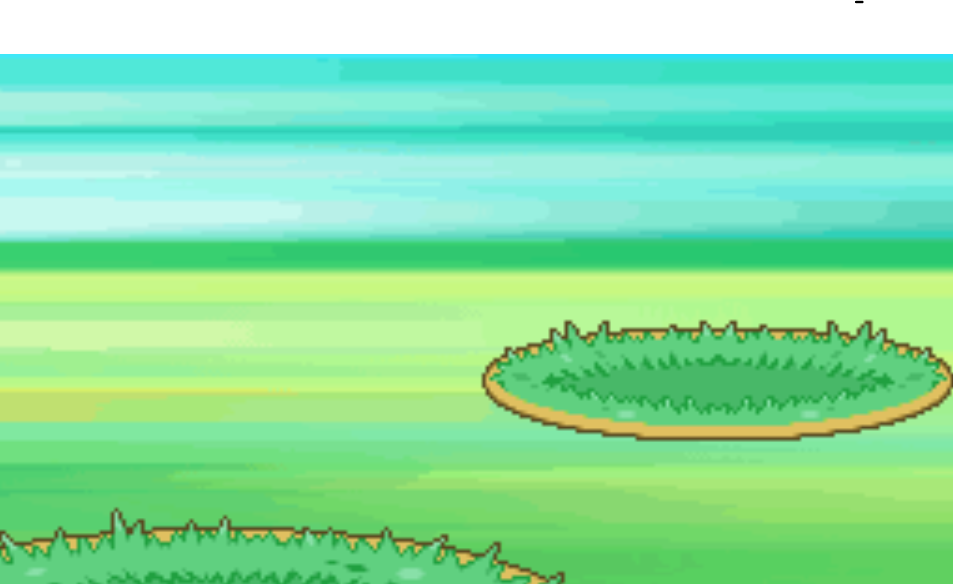
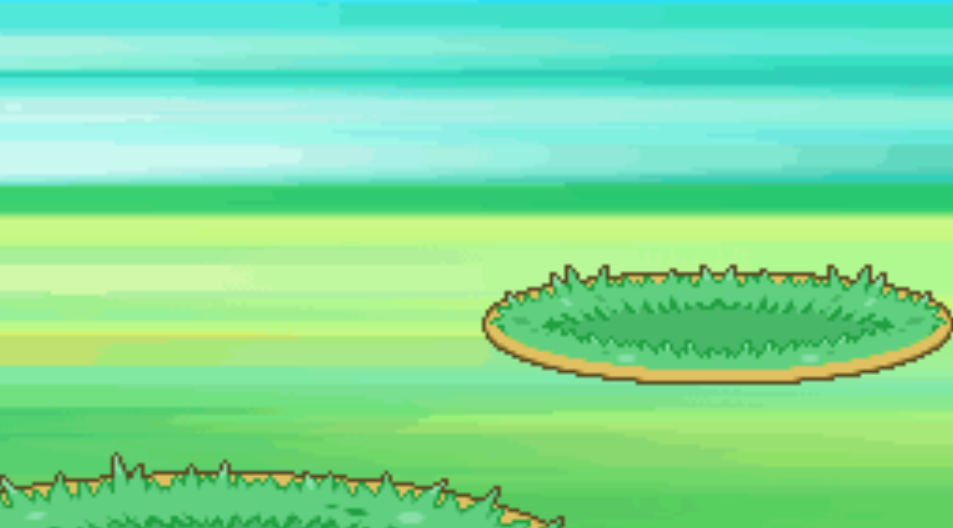
Adjustments
- Adjusted background
- Readded functionality to buttons but in main app class

diff --git a/Window_class.py b/Window_class.py
@@ -9,7 +9,7 @@ from PIL import Image, ImageTk
 
 
 MENU_WIDTH = 953
-MENU_HEIGHT = 584+250
+MENU_HEIGHT = 528+175
 MENU_CENTERX = MENU_WIDTH / 2
 MENU_CENTERY = MENU_HEIGHT / 2
 BOTTOM_BARY = MENU_CENTERY * 0.75
@@ -53,11 +53,6 @@ class Window:
     def get_pokemon_remaining_pl(self):
         return self.pokemon_remaining_pl
 
-    def test(self):
-        COLORS = ["red", "green", "blue", "yellow"]
-        example = Label(self.root, text="test", background=random.choice(COLORS))
-        example.place(x=0, y=0, width=50, height=50)
-
     def mouse_hover_change(self, button, oldtext):
         '''Change the text of the button when the mouse is over it.'''
         button.bind("<Enter>", lambda e: button.config(text="➤ " + oldtext))
@@ -72,29 +67,31 @@ class Window:
         self.moves_frame = Frame(self.root, bg="white")
         self.moves_frame.place(x=SIDE_FRAME, y=BOTTOM_BARY_TOP+TOP_BOTTOM_FRAME, width=OPTIONS_MOVES_FRAME_WIDTH, height=OPTIONS_MOVES_FRAME_HEIGHT)
 
-        self.move1 = Button(self.moves_frame, text="move1", font=self.font, justify=LEFT,command=self.test)
+        self.move1 = Button(self.moves_frame, text="move1", font=self.font, justify=LEFT)
         self.move1.place(x=0,y=0,width=OPTIONS_MOVES_FRAME_WIDTH/2,height=OPTIONS_MOVES_FRAME_HEIGHT/2)
 
-        self.move2 = Button(self.moves_frame, text="move2", font=self.font, justify=LEFT,command=self.test)
+        self.move2 = Button(self.moves_frame, text="move2", font=self.font, justify=LEFT)
         self.move2.place(x=OPTIONS_MOVES_FRAME_WIDTH/2,y=0,width=OPTIONS_MOVES_FRAME_WIDTH/2,height=OPTIONS_MOVES_FRAME_HEIGHT/2) 
 
-        self.move3 = Button(self.moves_frame, text="move3", font=self.font, justify=LEFT,command=self.test)
+        self.move3 = Button(self.moves_frame, text="move3", font=self.font, justify=LEFT)
         self.move3.place(x=0,y=OPTIONS_MOVES_FRAME_HEIGHT/2,width=OPTIONS_MOVES_FRAME_WIDTH/2,height=OPTIONS_MOVES_FRAME_HEIGHT/2)
 
-        self.move4 = Button(self.moves_frame, text="move4", font=self.font, justify=LEFT,command=self.test)
+        self.move4 = Button(self.moves_frame, text="move4", font=self.font, justify=LEFT)
         self.move4.place(x=OPTIONS_MOVES_FRAME_WIDTH/2,y=OPTIONS_MOVES_FRAME_HEIGHT/2,width=OPTIONS_MOVES_FRAME_WIDTH/2,height=OPTIONS_MOVES_FRAME_HEIGHT/2)
 
 
 
 
-    def setup(self): # Change to use place() instead of grid(). Also origin is top left corner
-        '''Create all of the widgets for the menu.'''
+    def setup(self): # Origin is top left corner
+        '''Create all of the widgets for the main game menu.'''
+        # Background
         wallpaper = Image.open("pokemon_background.png")
         wallpaper = ImageTk.PhotoImage(wallpaper)
+        img_height = wallpaper.height()
 
         self.background = Label(self.root,image=wallpaper, bg=None)
         self.background.image = wallpaper
-        self.background.place(x=0, y=0, width=MENU_WIDTH, height=BOTTOM_BARY_TOP)
+        self.background.place(x=0, y=img_height-MENU_HEIGHT, width=MENU_WIDTH, height=MENU_HEIGHT)
 
 
         self.font = Font(family="Helvetica", size=20, weight="bold")
@@ -120,26 +117,26 @@ class Window:
 
 
         # top left button
-        self.fight_button = Button(self.right_options_frame, text="Fight", font=self.font, justify=LEFT,command=self.test)
+        self.fight_button = Button(self.right_options_frame, text="Fight", font=self.font, justify=LEFT)
         self.fight_button.place(x=0,y=0,width=OPTIONS_INNER_FRAME_WIDTH/2,height=OPTIONS_INNER_FRAME_HEIGHT/2)
         self.fight_button.config(borderwidth=0)
         self.mouse_hover_change(self.fight_button, "Fight")
         
         # top right button
-        self.bag_button = Button(self.right_options_frame, text="Bag", font=self.font, justify=LEFT,command=self.test)
+        self.bag_button = Button(self.right_options_frame, text="Bag", font=self.font, justify=LEFT)
         self.bag_button.place(x=OPTIONS_INNER_FRAME_WIDTH/2,y=0,width=OPTIONS_INNER_FRAME_WIDTH/2,height=OPTIONS_INNER_FRAME_HEIGHT/2)
         self.bag_button.config(borderwidth=0)
         self.bag_button["state"] = DISABLED
         self.mouse_hover_change(self.bag_button, "Bag")
 
         # bottom left button
-        self.switch_button = Button(self.right_options_frame, text="Switch", font=self.font, justify=LEFT,command=self.test)
+        self.switch_button = Button(self.right_options_frame, text="Switch", font=self.font, justify=LEFT)
         self.switch_button.place(x=0,y=OPTIONS_INNER_FRAME_HEIGHT/2,width=OPTIONS_INNER_FRAME_WIDTH/2,height=OPTIONS_INNER_FRAME_HEIGHT/2)
         self.switch_button.config(borderwidth=0)
         self.mouse_hover_change(self.switch_button, "Switch")
 
         # bottom right button
-        self.run_button = Button(self.right_options_frame, text="Run", font=self.font, justify=LEFT,command=self.test)
+        self.run_button = Button(self.right_options_frame, text="Run", font=self.font, justify=LEFT)
         self.run_button.place(x=OPTIONS_INNER_FRAME_WIDTH/2,y=OPTIONS_INNER_FRAME_HEIGHT/2,width=OPTIONS_INNER_FRAME_WIDTH/2,height=OPTIONS_INNER_FRAME_HEIGHT/2)
         self.run_button.config(borderwidth=0)
         self.mouse_hover_change(self.run_button, "Run")

diff --git a/GamePokemon_class.py b/GamePokemon_class.py
@@ -12,10 +12,24 @@ class Main:
 
     def __init__(self):
         self.window = Window()
+        self.setting_up_buttons()
+    
+    def test(self):
+        COLORS = ["red", "green", "blue", "yellow"]
+        example = Label(self.window.root, text="test", background=random.choice(COLORS))
+        example.place(x=0, y=0, width=50, height=50)
 
     def setting_up_buttons(self):
-        fight_button = self.window.fight_button()
-        fight_button['command'] = self.window.moves_GUI
+        self.window.fight_button['command'] = self.test
+        self.window.bag_button['command'] = self.test
+        self.window.switch_button['command'] = self.test
+        self.window.run_button['command'] = self.test
+
+        self.window.fight_button['command'] = self.window.moves_GUI
+        # self.window.move1_button['command'] =
+        # self.window.move2_button['command'] =
+        # self.window.move3_button['command'] =
+        # self.window.move4_button['command'] =
 
 if __name__ == "__main__":
     menu = ""#menu we havent created
